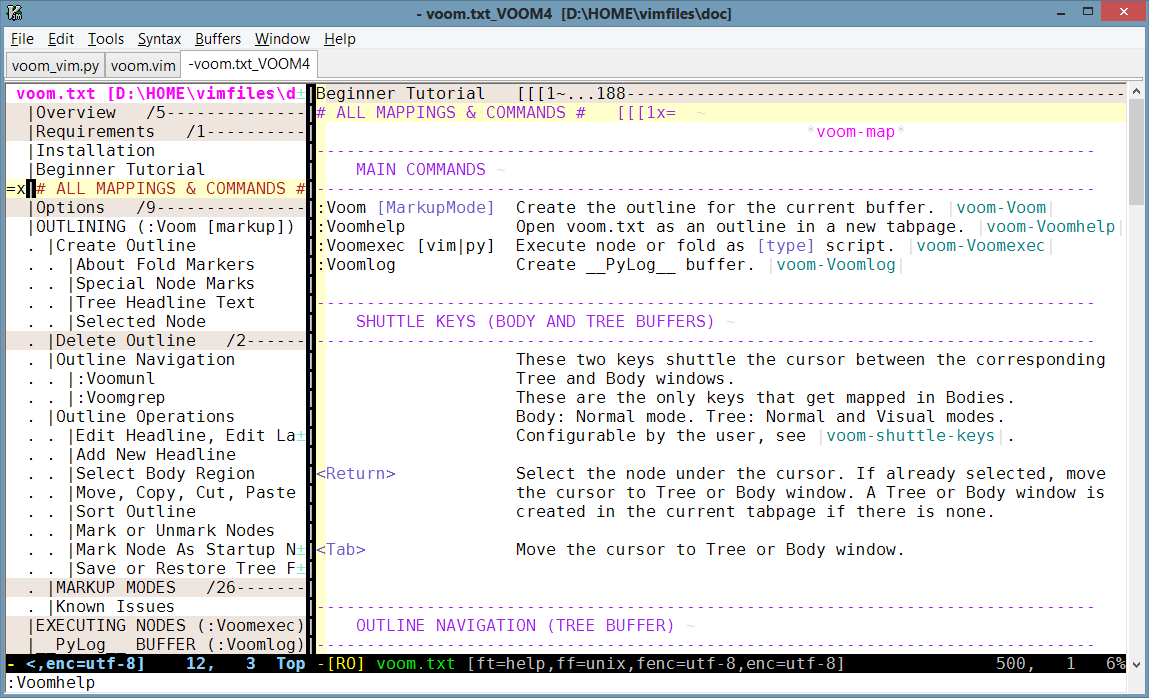
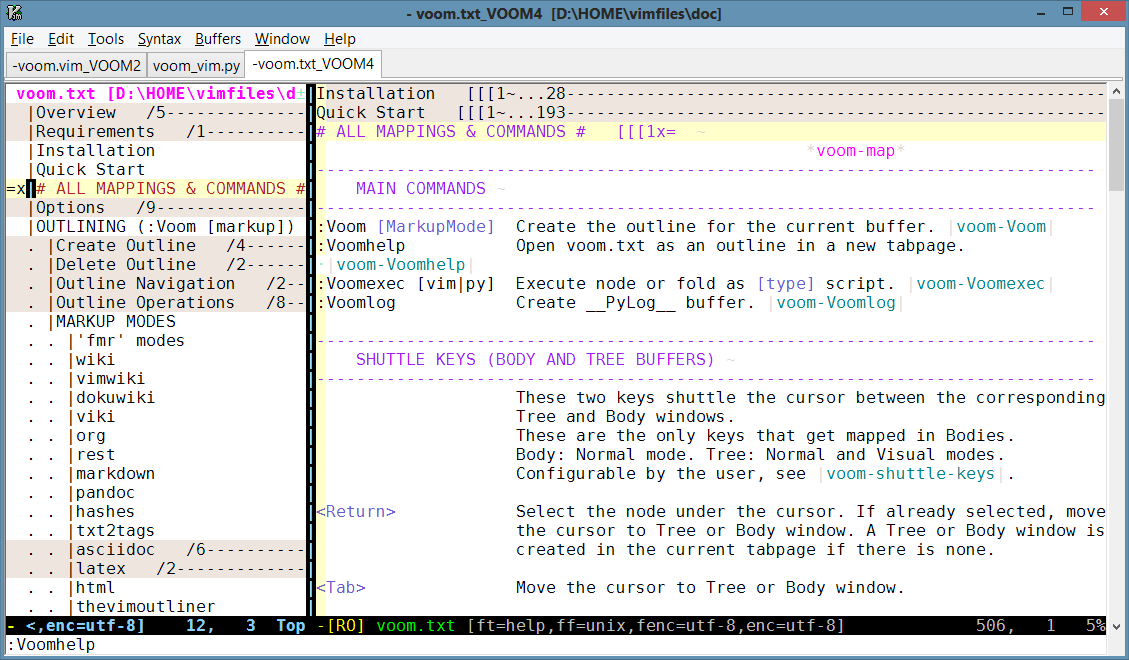
update for v5.1

diff --git a/index.html b/index.html
@@ -30,7 +30,7 @@ This page is for screenshots.</p>
 <a href="pics/voom_voomhelp.png"><img class="screenshot" src="pics/voom_voomhelp_small.gif" alt=""></a>
 </td>
 <td>
-The default outline layout after the command <b><tt>:Voom</tt></b>. The outline window (Tree buffer) is on the left.<br>
+The default outline layout after the command <b><tt>:Voom&nbsp;[markup]</tt></b>. The outline window (Tree buffer) is on the left.<br>
 <br>
 This screenshot shows VOoM help file, "doc/voom.txt", which is written as an outline. It is a standard Vim help file except that it uses non-default <a href="http://vimdoc.sourceforge.net/htmldoc/options.html#%27foldmarker%27">fold markers</a> set from a modeline at the bottom of the file. The command <b><tt>:Voomhelp</tt></b> opens this help file as an outline in a new tabpage.
 </td>
@@ -48,7 +48,7 @@ This screenshot shows VOoM help file, "doc/voom.txt", which is written as an out
 <a href="pics/voom_voomhelp_split.png"><img class="screenshot" src="pics/voom_voomhelp_split_small.gif" alt=""></a>
 </td>
 <td>
-In this screenshot the Tree buffer (on the right) and the source buffer are each split in two windows to show different parts on the outline. VOoM Tree buffers (there is one for each source buffer) can be displayed in any number of different windows and tab pages, just like any other Vim buffer. It is also possible to have an entirely different outline view in another tab page.
+In this screenshot the Tree buffer (on the right) and the source buffer are each split in two windows to show different parts on the same outline. VOoM Tree buffers (there is one for each source buffer) can be displayed in any number of different windows and tab pages, just like any other Vim buffer. It is also possible to have an entirely different outline view in another tab page.
 </td>
 </tr></table>
 <br><br>
@@ -96,13 +96,14 @@ VOoM was originally written to work with
 <a href="http://vimdoc.sourceforge.net/htmldoc/fold.html#fold-marker">start fold markers with level numbers</a>,
 which is one of Vim's built-in folding methods and is the most versatile outline markup.
 <br><br>
-VOoM can currently handle a variety of markups, including several popular
+VOoM can currently handle a variety of markups, including popular
 <a href="http://en.wikipedia.org/wiki/Lightweight_markup_language">lightweight markup languages</a>.
 These markups have headlines (also called headings, headers, section headers, titles) and thus support an outline structure. VOoM can work with headlines in the following formats:
 <ul>
 <li><a href="http://vimdoc.sourceforge.net/htmldoc/fold.html#fold-marker">start fold markers with level numbers</a> (<tt>:Voom</tt>) This is the default format.</li>
 <li><a href="http://en.wikipedia.org/wiki/Help:Wiki_markup#Sections">MediaWiki</a> (<tt>:Voom&nbsp;wiki</tt>)</li>
 <li><a href="http://www.vim.org/scripts/script.php?script_id=2226">vimwiki</a> (<tt>:Voom&nbsp;vimwiki</tt>)</li>
+<li><a href="https://www.dokuwiki.org/">DokuWiki</a> (<tt>:Voom&nbsp;dokuwiki</tt>)</li>
 <li><a href="http://www.vim.org/scripts/script.php?script_id=861">Viki/Deplate</a> (<tt>:Voom&nbsp;viki</tt>)</li>
 <li><a href="http://orgmode.org/">Emacs Org-mode</a> (<tt>:Voom&nbsp;org</tt>)</li>
 <li><a href="http://docutils.sourceforge.net/rst.html">reStructuredText</a> (<tt>:Voom&nbsp;rest</tt>)</li>
@@ -111,7 +112,7 @@ These markups have headlines (also called headings, headers, section headers, ti
 	shows <a href="http://johnmacfarlane.net/pandoc/">Pandoc</a> README.</li>
 <li><a href="http://johnmacfarlane.net/pandoc/README.html#pandocs-markdown">Pandoc Markdown</a> (<tt>:Voom&nbsp;pandoc</tt>)</li>
 <li><a href="http://txt2tags.org/">txt2tags</a> (<tt>:Voom&nbsp;txt2tags</tt>) This <a href="pics/voom_txt2tags.png">screenshot</a> shows txt2tags user guide.
-<li><a href="http://www.methods.co.nz/asciidoc/">AsciiDoc</a> (<tt>:Voom&nbsp;asciidoc</tt>)
+<li><a href="http://asciidoc.org/">AsciiDoc</a> (<tt>:Voom&nbsp;asciidoc</tt>)
 	Both title formats are recognized. This <a href="pics/voom_asciidoc.png">screenshot</a> shows AsciiDoc user guide.</li>
 <li><a href="http://en.wikipedia.org/wiki/LaTeX">LaTeX</a> (<tt>:Voom&nbsp;latex</tt>)
 	This <a href="pics/voom_latex.png">screenshot</a> shows <a href="http://www.ctan.org/tex-archive/info/amslatex/primer">amshelp.tex</a>.</li>
